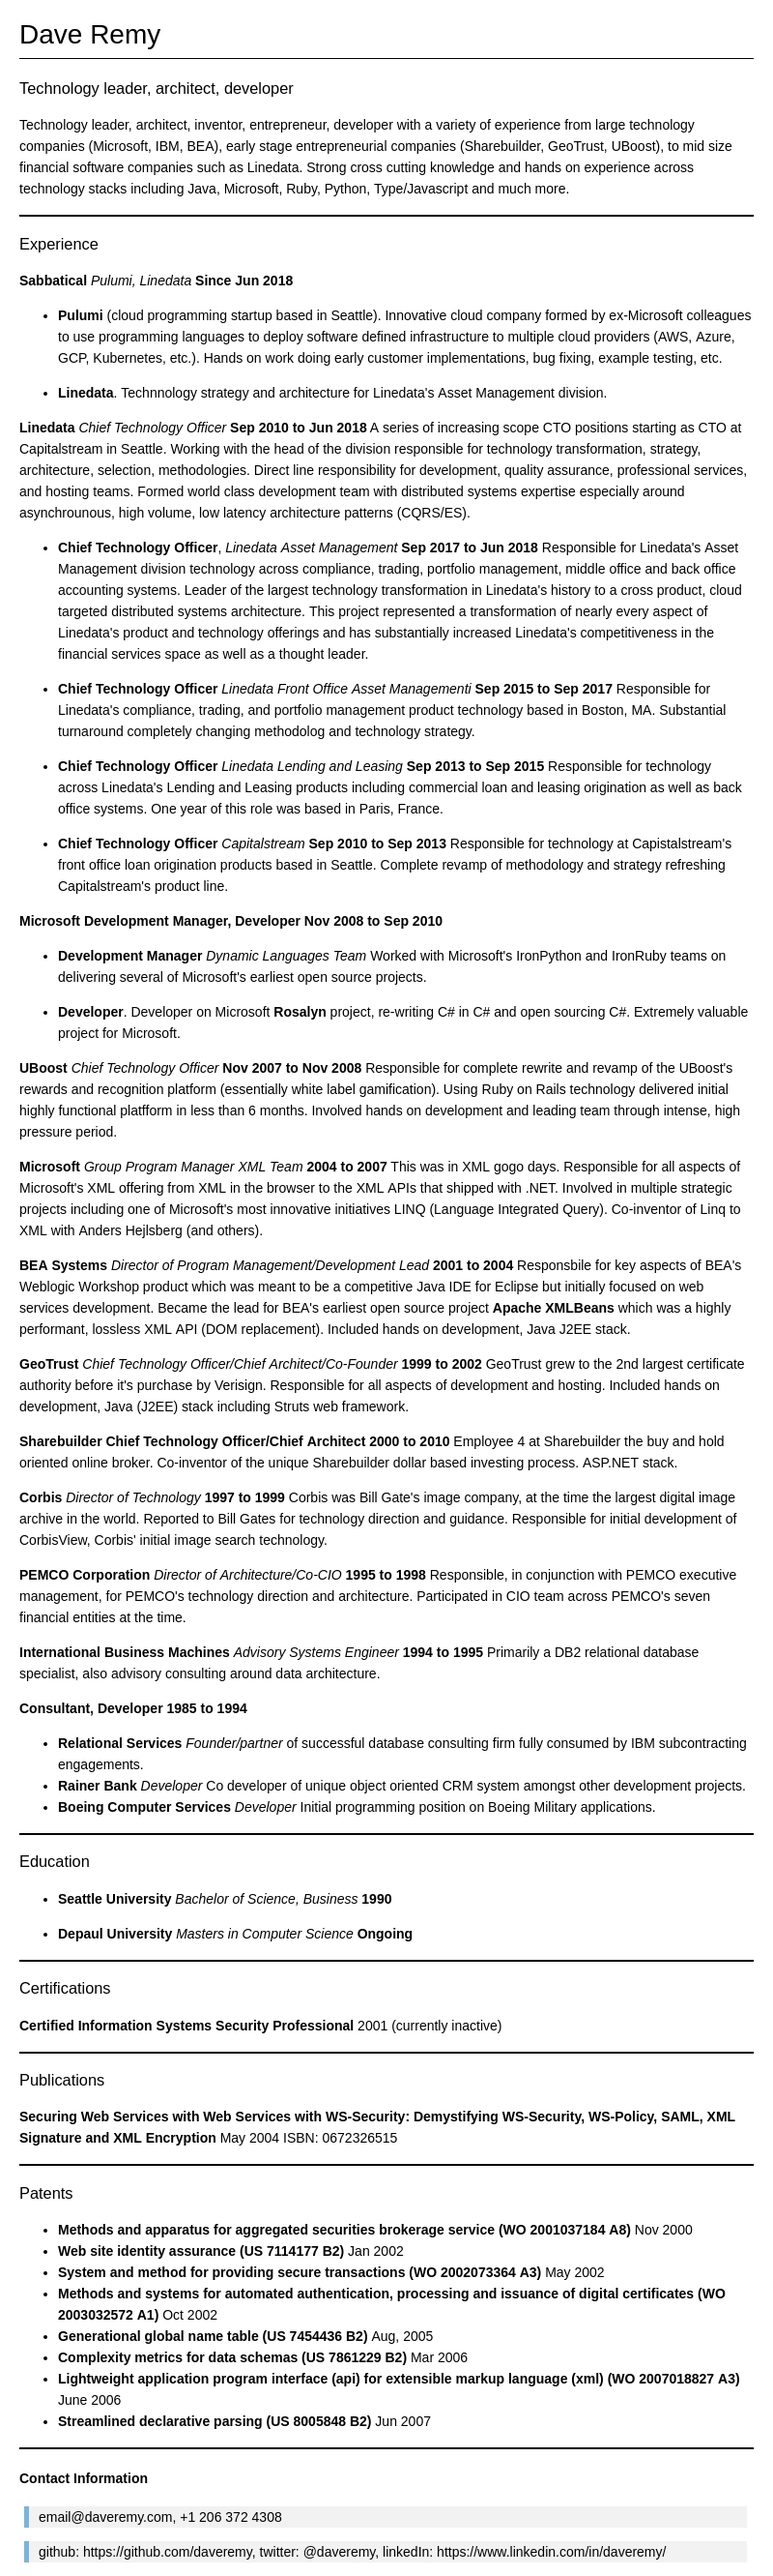
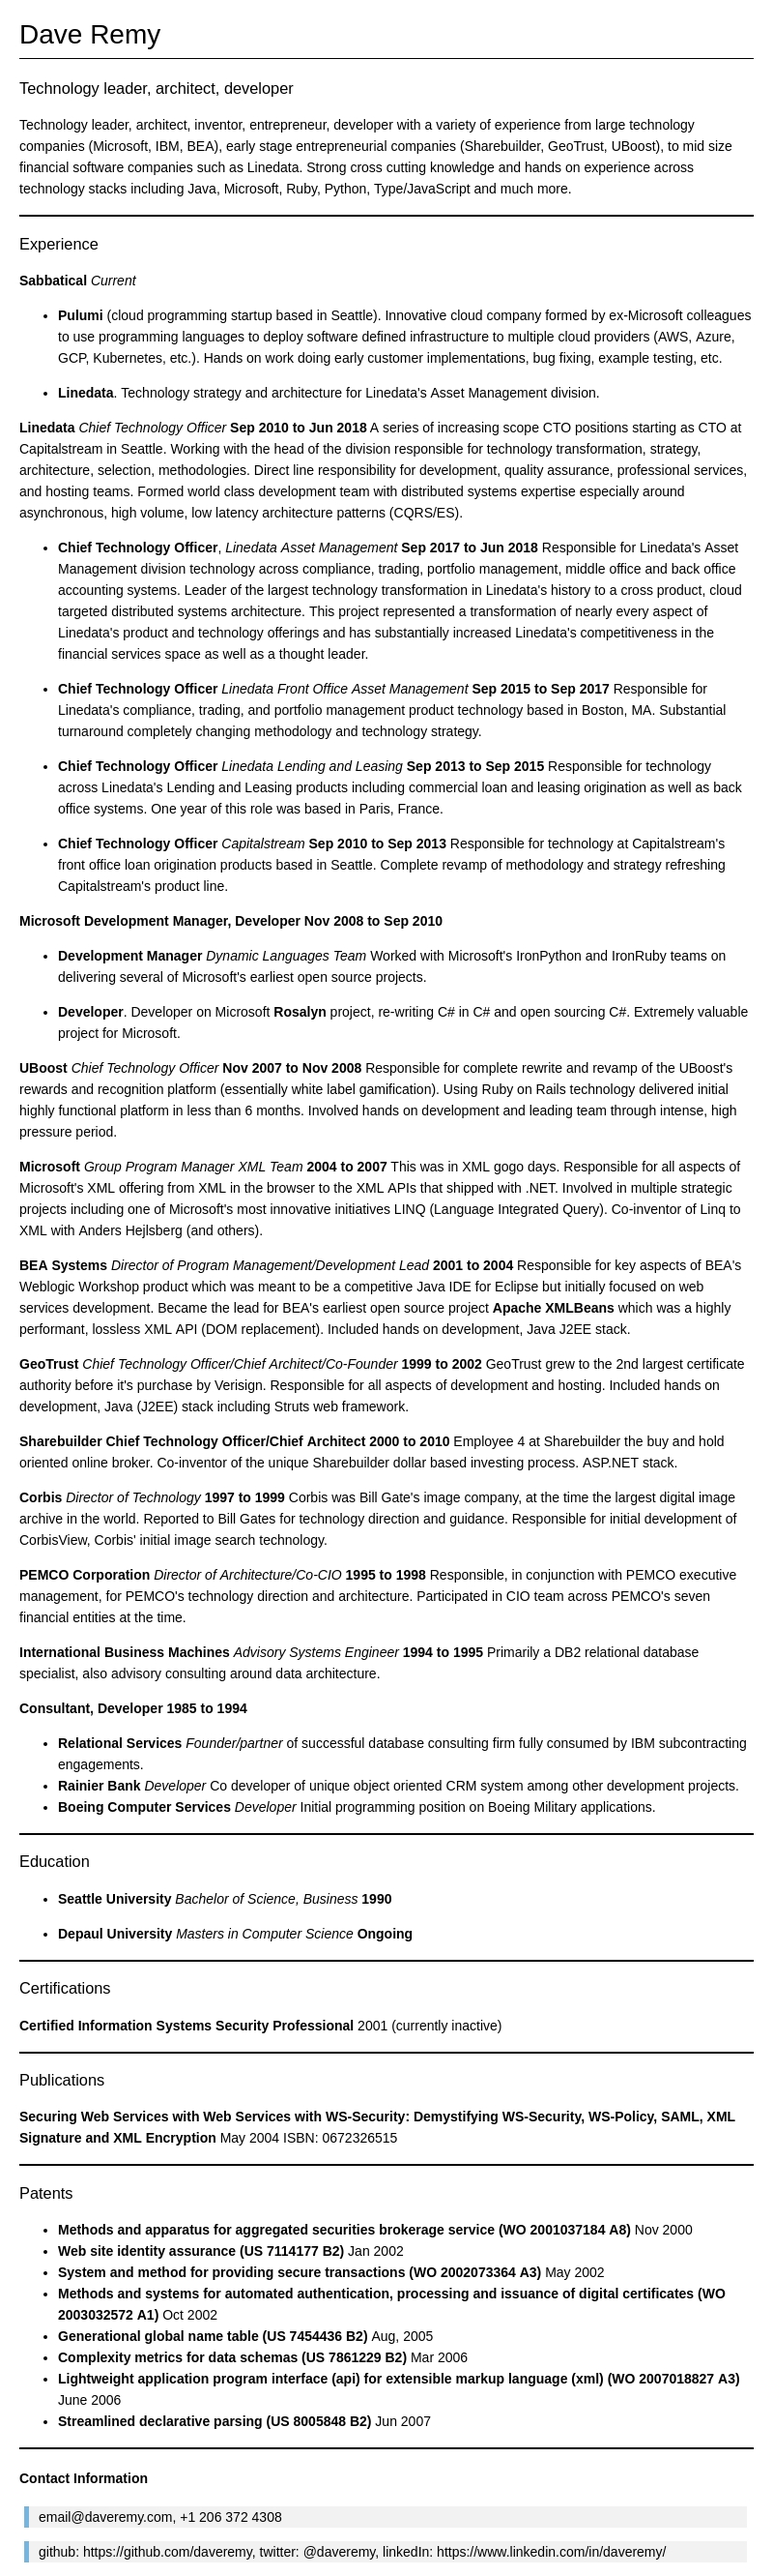
Sepll check, fix typos:x

Changed region(s): [[0.75, 0.2493, 0.7812, 0.2805], [0.6562, 0.2493, 0.6875, 0.2805]]

diff --git a/resume.html b/resume.html
@@ -387,28 +387,28 @@ blockquote {
 <body>
 <h1 id="dave-remy">Dave Remy</h1>
 <h3 id="technology-leader-architect-developer">Technology leader, architect, developer</h3>
-<p>Technology leader, architect, inventor, entrepreneur, developer with a variety of experience from large technology companies (Microsoft, IBM, BEA), early stage entrepreneurial companies (Sharebuilder, GeoTrust, UBoost), to mid size financial software companies such as Linedata.  Strong cross cutting knowledge and hands on experience across technology stacks including Java, Microsoft, Ruby, Python, Type/Javascript and much more.</p>
+<p>Technology leader, architect, inventor, entrepreneur, developer with a variety of experience from large technology companies (Microsoft, IBM, BEA), early stage entrepreneurial companies (Sharebuilder, GeoTrust, UBoost), to mid size financial software companies such as Linedata.  Strong cross cutting knowledge and hands on experience across technology stacks including Java, Microsoft, Ruby, Python, Type/JavaScript and much more.</p>
 <hr>
 <h3 id="experience">Experience</h3>
-<p><strong>Sabbatical</strong> <em>Pulumi, Linedata</em> <strong>Since Jun 2018</strong></p>
+<p><strong>Sabbatical</strong> <em>Current</em></p>
 <ul>
 <li>
 <p><strong>Pulumi</strong> (cloud programming startup based in Seattle).  Innovative cloud company formed by ex-Microsoft colleagues to use programming languages to deploy software defined infrastructure to multiple cloud providers (AWS, Azure, GCP, Kubernetes, etc.).  Hands on work doing early customer implementations, bug fixing, example testing, etc.</p>
 </li>
 <li>
-<p><strong>Linedata</strong>.  Technnology strategy and architecture for Linedata's Asset Management division.</p>
+<p><strong>Linedata</strong>.  Technology strategy and architecture for Linedata's Asset Management division.</p>
 </li>
 </ul>
 <p><strong>Linedata</strong> <em>Chief Technology Officer</em> <strong>Sep 2010 to Jun 2018</strong>
-A series of increasing scope CTO positions starting as CTO at Capitalstream in Seattle.  Working with the head of the division responsible for technology transformation, strategy, architecture, selection, methodologies.  Direct line responsibility for development, quality assurance, professional services, and hosting teams.  Formed world class development team with distributed systems expertise especially around asynchrounous, high volume, low latency architecture patterns (CQRS/ES).</p>
+A series of increasing scope CTO positions starting as CTO at Capitalstream in Seattle.  Working with the head of the division responsible for technology transformation, strategy, architecture, selection, methodologies.  Direct line responsibility for development, quality assurance, professional services, and hosting teams.  Formed world class development team with distributed systems expertise especially around asynchronous, high volume, low latency architecture patterns (CQRS/ES).</p>
 <ul>
 <li>
 <p><strong>Chief Technology Officer</strong>, <em>Linedata Asset Management</em> <strong>Sep 2017 to Jun 2018</strong>
 Responsible for Linedata's Asset Management division technology across compliance, trading, portfolio management, middle office and back office accounting systems.  Leader of the largest technology transformation in Linedata's history to a cross product, cloud targeted distributed systems architecture.  This project represented a transformation of nearly every aspect of Linedata's product and technology offerings and has substantially increased Linedata's competitiveness in the financial services space as well as a thought leader.</p>
 </li>
 <li>
-<p><strong>Chief Technology Officer</strong> <em>Linedata Front Office Asset Managementi</em> <strong>Sep 2015 to Sep 2017</strong>
-Responsible for Linedata's compliance, trading, and portfolio management product technology based in Boston, MA. Substantial turnaround completely changing methodolog and technology strategy.</p>
+<p><strong>Chief Technology Officer</strong> <em>Linedata Front Office Asset Management</em> <strong>Sep 2015 to Sep 2017</strong>
+Responsible for Linedata's compliance, trading, and portfolio management product technology based in Boston, MA. Substantial turnaround completely changing methodology and technology strategy.</p>
 </li>
 <li>
 <p><strong>Chief Technology Officer</strong> <em>Linedata Lending and Leasing</em> <strong>Sep 2013 to Sep 2015</strong>
@@ -416,7 +416,7 @@ Responsible for technology across Linedata's Lending and Leasing products includ
 </li>
 <li>
 <p><strong>Chief Technology Officer</strong> <em>Capitalstream</em> <strong>Sep 2010 to Sep 2013</strong>
-Responsible for technology at Capistalstream's front office loan origination products based in Seattle.  Complete revamp of methodology and strategy refreshing Capitalstream's product line.</p>
+Responsible for technology at Capitalstream's front office loan origination products based in Seattle.  Complete revamp of methodology and strategy refreshing Capitalstream's product line.</p>
 </li>
 </ul>
 <p><strong>Microsoft</strong> <strong>Development Manager, Developer</strong> <strong>Nov 2008 to Sep 2010</strong></p>
@@ -429,11 +429,11 @@ Responsible for technology at Capistalstream's front office loan origination pro
 </li>
 </ul>
 <p><strong>UBoost</strong> <em>Chief Technology Officer</em> <strong>Nov 2007 to Nov 2008</strong>
-Responsible for complete rewrite and revamp of the UBoost's rewards and recognition platform (essentially white label gamification).  Using Ruby on Rails technology delivered initial highly functional platfform in less than 6 months. Involved hands on development and leading team through intense, high pressure period.</p>
+Responsible for complete rewrite and revamp of the UBoost's rewards and recognition platform (essentially white label gamification).  Using Ruby on Rails technology delivered initial highly functional platform in less than 6 months. Involved hands on development and leading team through intense, high pressure period.</p>
 <p><strong>Microsoft</strong> <em>Group Program Manager XML Team</em> <strong>2004 to 2007</strong>
 This was in XML gogo days.  Responsible for all aspects of Microsoft's XML offering from XML in the browser to the XML APIs that shipped with .NET.  Involved in multiple strategic projects including one of Microsoft's most innovative initiatives LINQ (Language Integrated Query).  Co-inventor of Linq to XML with Anders Hejlsberg (and others).</p>
 <p><strong>BEA Systems</strong> <em>Director of Program Management/Development Lead</em> <strong>2001 to 2004</strong>
-Responsbile for key aspects of BEA's Weblogic Workshop product which was meant to be a competitive Java IDE for Eclipse but initially focused on web services development.  Became the lead for BEA's earliest open source project <strong>Apache XMLBeans</strong> which was a highly performant, lossless XML API (DOM replacement).  Included hands on development, Java J2EE stack.</p>
+Responsible for key aspects of BEA's Weblogic Workshop product which was meant to be a competitive Java IDE for Eclipse but initially focused on web services development.  Became the lead for BEA's earliest open source project <strong>Apache XMLBeans</strong> which was a highly performant, lossless XML API (DOM replacement).  Included hands on development, Java J2EE stack.</p>
 <p><strong>GeoTrust</strong> <em>Chief Technology Officer/Chief Architect/Co-Founder</em> <strong>1999 to 2002</strong>
 GeoTrust grew to the 2nd largest certificate authority before it's purchase by Verisign.  Responsible for all aspects of development and hosting.  Included hands on development, Java (J2EE) stack including Struts web framework.</p>
 <p><strong>Sharebuilder</strong> <strong>Chief Technology Officer/Chief Architect</strong> <strong>2000 to 2010</strong>
@@ -447,7 +447,7 @@ Primarily a DB2 relational database specialist, also advisory consulting around 
 <p><strong>Consultant, Developer</strong> <strong>1985 to 1994</strong></p>
 <ul>
 <li><strong>Relational Services</strong> <em>Founder/partner</em> of successful database consulting firm fully consumed by IBM subcontracting engagements.</li>
-<li><strong>Rainer Bank</strong> <em>Developer</em> Co developer of unique object oriented CRM system amongst other development projects.</li>
+<li><strong>Rainier Bank</strong> <em>Developer</em> Co developer of unique object oriented CRM system among other development projects.</li>
 <li><strong>Boeing Computer Services</strong> <em>Developer</em> Initial programming position on Boeing Military applications.</li>
 </ul>
 <hr>

diff --git a/resume.md b/resume.md
@@ -2,32 +2,32 @@
 ### Technology leader, architect, developer
 
 
-Technology leader, architect, inventor, entrepreneur, developer with a variety of experience from large technology companies (Microsoft, IBM, BEA), early stage entrepreneurial companies (Sharebuilder, GeoTrust, UBoost), to mid size financial software companies such as Linedata.  Strong cross cutting knowledge and hands on experience across technology stacks including Java, Microsoft, Ruby, Python, Type/Javascript and much more.
+Technology leader, architect, inventor, entrepreneur, developer with a variety of experience from large technology companies (Microsoft, IBM, BEA), early stage entrepreneurial companies (Sharebuilder, GeoTrust, UBoost), to mid size financial software companies such as Linedata.  Strong cross cutting knowledge and hands on experience across technology stacks including Java, Microsoft, Ruby, Python, Type/JavaScript and much more.
 
 
 ------
 ### Experience
 
-**Sabbatical** *Pulumi, Linedata* __Since Jun 2018__
+**Sabbatical** *Current*
 
 * **Pulumi** (cloud programming startup based in Seattle).  Innovative cloud company formed by ex-Microsoft colleagues to use programming languages to deploy software defined infrastructure to multiple cloud providers (AWS, Azure, GCP, Kubernetes, etc.).  Hands on work doing early customer implementations, bug fixing, example testing, etc.
 
-* **Linedata**.  Technnology strategy and architecture for Linedata's Asset Management division.  
+* **Linedata**.  Technology strategy and architecture for Linedata's Asset Management division.  
 
 **Linedata** *Chief Technology Officer* __Sep 2010 to Jun 2018__
-A series of increasing scope CTO positions starting as CTO at Capitalstream in Seattle.  Working with the head of the division responsible for technology transformation, strategy, architecture, selection, methodologies.  Direct line responsibility for development, quality assurance, professional services, and hosting teams.  Formed world class development team with distributed systems expertise especially around asynchrounous, high volume, low latency architecture patterns (CQRS/ES).
+A series of increasing scope CTO positions starting as CTO at Capitalstream in Seattle.  Working with the head of the division responsible for technology transformation, strategy, architecture, selection, methodologies.  Direct line responsibility for development, quality assurance, professional services, and hosting teams.  Formed world class development team with distributed systems expertise especially around asynchronous, high volume, low latency architecture patterns (CQRS/ES).
 
 * **Chief Technology Officer**, *Linedata Asset Management* __Sep 2017 to Jun 2018__
 Responsible for Linedata's Asset Management division technology across compliance, trading, portfolio management, middle office and back office accounting systems.  Leader of the largest technology transformation in Linedata's history to a cross product, cloud targeted distributed systems architecture.  This project represented a transformation of nearly every aspect of Linedata's product and technology offerings and has substantially increased Linedata's competitiveness in the financial services space as well as a thought leader.
 
-* **Chief Technology Officer** *Linedata Front Office Asset Managementi* __Sep 2015 to Sep 2017__
-Responsible for Linedata's compliance, trading, and portfolio management product technology based in Boston, MA. Substantial turnaround completely changing methodolog and technology strategy.
+* **Chief Technology Officer** *Linedata Front Office Asset Management* __Sep 2015 to Sep 2017__
+Responsible for Linedata's compliance, trading, and portfolio management product technology based in Boston, MA. Substantial turnaround completely changing methodology and technology strategy.
 
 * **Chief Technology Officer** *Linedata Lending and Leasing* __Sep 2013 to Sep 2015__
 Responsible for technology across Linedata's Lending and Leasing products including commercial loan and leasing origination as well as back office systems. One year of this role was based in Paris, France.
 
 * **Chief Technology Officer** *Capitalstream* __Sep 2010 to Sep 2013__
-Responsible for technology at Capistalstream's front office loan origination products based in Seattle.  Complete revamp of methodology and strategy refreshing Capitalstream's product line.  
+Responsible for technology at Capitalstream's front office loan origination products based in Seattle.  Complete revamp of methodology and strategy refreshing Capitalstream's product line.  
     
 **Microsoft** **Development Manager, Developer** __Nov 2008 to Sep 2010__
 * **Development Manager** *Dynamic Languages Team* Worked with Microsoft's IronPython and IronRuby teams on delivering several of Microsoft's earliest open source projects.  
@@ -35,13 +35,13 @@ Responsible for technology at Capistalstream's front office loan origination pro
 * **Developer**.  Developer on Microsoft __Rosalyn__ project, re-writing C# in C# and open sourcing C#.  Extremely valuable project for Microsoft.
 
 **UBoost** *Chief Technology Officer* __Nov 2007 to Nov 2008__
-Responsible for complete rewrite and revamp of the UBoost's rewards and recognition platform (essentially white label gamification).  Using Ruby on Rails technology delivered initial highly functional platfform in less than 6 months. Involved hands on development and leading team through intense, high pressure period.
+Responsible for complete rewrite and revamp of the UBoost's rewards and recognition platform (essentially white label gamification).  Using Ruby on Rails technology delivered initial highly functional platform in less than 6 months. Involved hands on development and leading team through intense, high pressure period.
 
 **Microsoft** *Group Program Manager XML Team* __2004 to 2007__
 This was in XML gogo days.  Responsible for all aspects of Microsoft's XML offering from XML in the browser to the XML APIs that shipped with .NET.  Involved in multiple strategic projects including one of Microsoft's most innovative initiatives LINQ (Language Integrated Query).  Co-inventor of Linq to XML with Anders Hejlsberg (and others).
 
 **BEA Systems** *Director of Program Management/Development Lead* __2001 to 2004__
-Responsbile for key aspects of BEA's Weblogic Workshop product which was meant to be a competitive Java IDE for Eclipse but initially focused on web services development.  Became the lead for BEA's earliest open source project __Apache XMLBeans__ which was a highly performant, lossless XML API (DOM replacement).  Included hands on development, Java J2EE stack.
+Responsible for key aspects of BEA's Weblogic Workshop product which was meant to be a competitive Java IDE for Eclipse but initially focused on web services development.  Became the lead for BEA's earliest open source project __Apache XMLBeans__ which was a highly performant, lossless XML API (DOM replacement).  Included hands on development, Java J2EE stack.
 
 **GeoTrust** *Chief Technology Officer/Chief Architect/Co-Founder* __1999 to 2002__
 GeoTrust grew to the 2nd largest certificate authority before it's purchase by Verisign.  Responsible for all aspects of development and hosting.  Included hands on development, Java (J2EE) stack including Struts web framework.
@@ -60,7 +60,7 @@ Primarily a DB2 relational database specialist, also advisory consulting around 
 
 **Consultant, Developer** __1985 to 1994__
 * **Relational Services** *Founder/partner* of successful database consulting firm fully consumed by IBM subcontracting engagements.
-* **Rainer Bank** *Developer* Co developer of unique object oriented CRM system amongst other development projects.
+* **Rainier Bank** *Developer* Co developer of unique object oriented CRM system among other development projects.
 * **Boeing Computer Services** *Developer* Initial programming position on Boeing Military applications.
 
 ------
